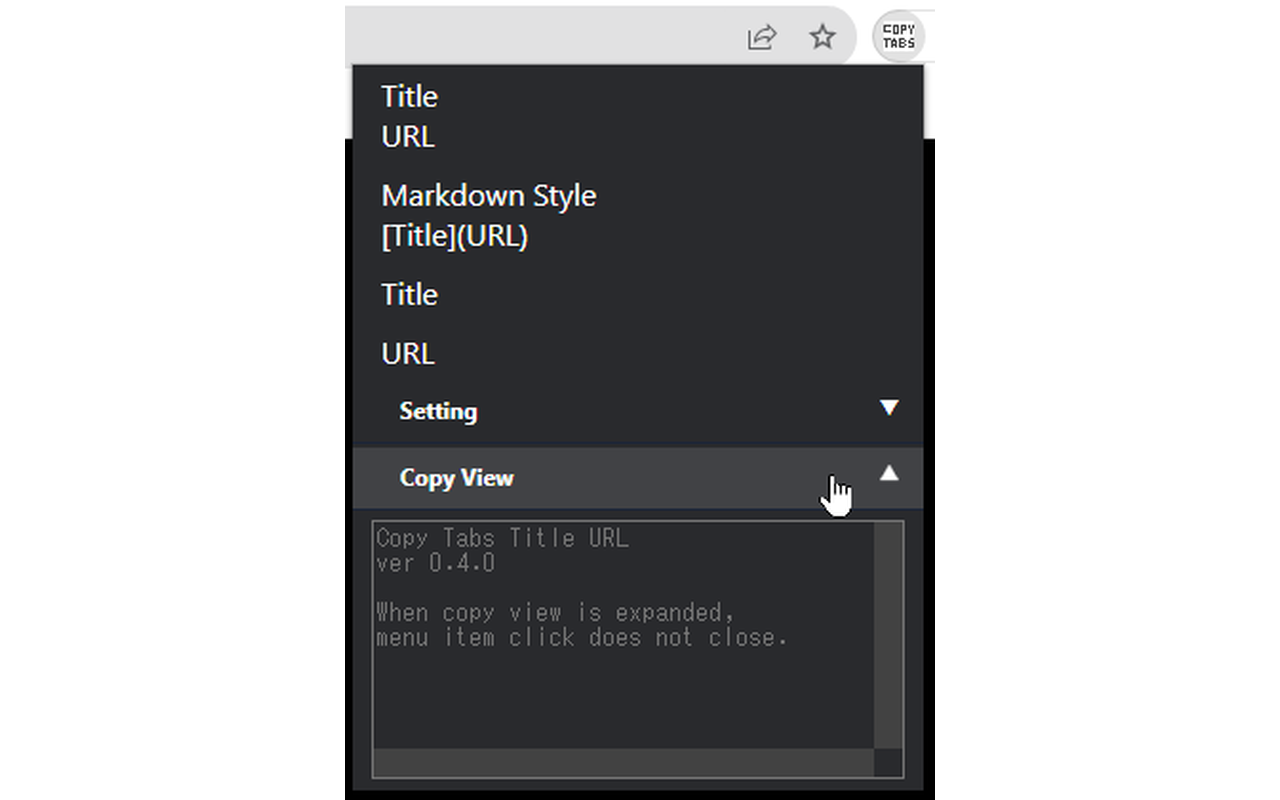
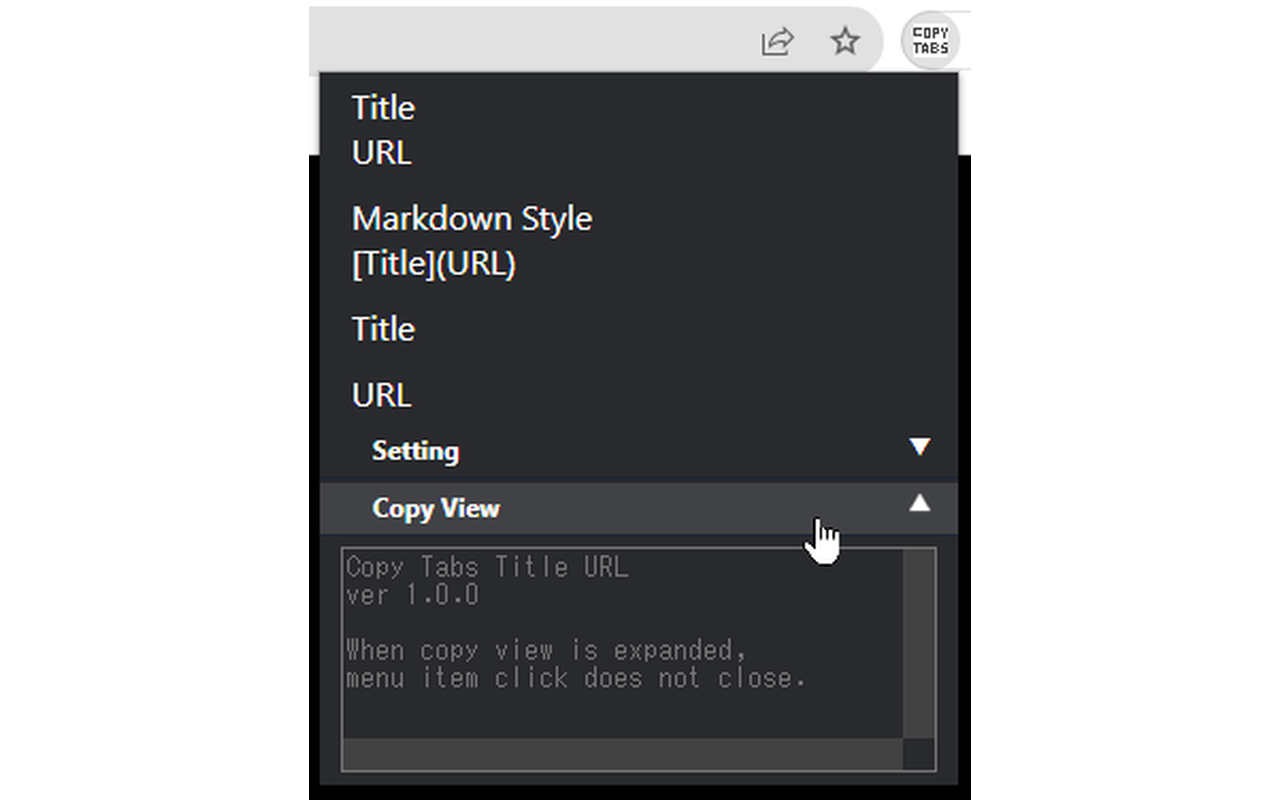
v1.0.0

Changed region(s): [[0.2188, 0.0, 0.7812, 1.0]]

diff --git a/copy-tabs-title-url/index.js b/copy-tabs-title-url/index.js
@@ -5,6 +5,7 @@ const state = {
   noEncodeJapaneseURL: true,
   deleteURLParameter: false,
   deleteTitleStartBracket: true,
+  replaceTitleSpaceZenToHan: true,
   deleteTitleQuoraAnserName: true,
   deleteTitleNameGitHubPullRequest: true,
   expandCopyView: true,
@@ -108,25 +109,44 @@ const _removeTagInnerFirst = (str, startTag, endTag) => {
   return _deleteIndex(str, indexStartTag + startTag.length, indexEndTag + - 1);
 };
 
-const urlShortAmazon = rawUrl => {
-  const AMAZON_HOST = "www.amazon.co.jp";
-  const url = new URL(rawUrl);
-  if (url.host == AMAZON_HOST && url.pathname.includes('/dp/')) {
-    let itemId = _subLastDelimFirst(url.pathname, '/dp/');
-    if (itemId.includes('/')) {
-      itemId = _subFirstDelimFirst(itemId, '/');
+const _removeTagOuterAll = (str, startTag, endTag) => {
+  let before = str;
+  while (true) {
+    let result = _removeTagInnerFirst(before, startTag, endTag);
+    result = result.replace(startTag+endTag, '');
+    console.log(before, result);
+    if (before === result) {
+      return result;
     }
-    newUrl = `${url.origin}/dp/${itemId}/`
-    return newUrl;
-  } else {
+    before = result;
+  }
+}
+
+const urlShortAmazon = rawUrl => {
+  const _urlShortAmazon = (amazonUrl, rawUrl) => {
+    const url = new URL(rawUrl);
+    if (url.host == amazonUrl && url.pathname.includes('/dp/')) {
+      let itemId = _subLastDelimFirst(url.pathname, '/dp/');
+      if (itemId.includes('/')) {
+        itemId = _subFirstDelimFirst(itemId, '/');
+      }
+      newUrl = `${url.origin}/dp/${itemId}/`
+      return newUrl;
+    }
     return rawUrl;
   }
+
+  let result = rawUrl;
+  result = _urlShortAmazon('www.amazon.com', result);
+  result = _urlShortAmazon('www.amazon.co.jp', result);
+  return result;
 }
 
 const urlNoEncodeJapanese = url => {
   let result = url;
   try {
     result = decodeURI(url);
+    result = result.replaceAll(' ', '%20');
   } catch (e) {
   }
   return result;
@@ -139,28 +159,13 @@ const urlDeleteParameter = rawUrl => {
 }
 
 const titleDeleteStartBracket = title => {
-  const excludeBracket = (start, end) => {
-    const indexStartbracket = _indexOfFirst(title, start);
-    const indexEndbracket = _indexOfFirst(title, end);
-
-    if (indexStartbracket === -1 || indexEndbracket === -1) {
-      return title;
-    }
-    if (indexEndbracket < indexStartbracket) {
-      return title;
-    }
-
-    let result = _subFirstDelimFirst(title, start);
-    result += _subLastDelimFirst(title, end);
-    return result;
-  }
-
-  let result  = excludeBracket('(', ') ');
-  if (result !== title) {
-    return result;
-  }
-  result = excludeBracket('(', ')');
+  let result = _removeTagOuterAll(title, '(', ') ');
+  result = _removeTagOuterAll(result, '(', ')');
   return result;
+}
+
+const titleReplaceSpaceZenToHan = title => {
+  return title.replaceAll('　', ' ');
 }
 
 const formatURL = (url, state) => {
@@ -173,6 +178,9 @@ const formatURL = (url, state) => {
 const formatTitleURL = ({title, url, state}) => {
   if (state.deleteTitleStartBracket) {
     title = titleDeleteStartBracket(title);
+  }
+  if (state.replaceTitleSpaceZenToHan) {
+    title = titleReplaceSpaceZenToHan(title);
   }
   if (state.deleteTitleQuoraAnserName) {
     title = _removeTagInnerFirst(title, 'に対する', '回答');
@@ -271,6 +279,9 @@ const onClickCheckboxURLDeleteParameter = e => {
 const onClickCheckboxTitleDeleteStartBracket = e => {
   setStorageParameter('deleteTitleStartBracket', e.srcElement.checked);
 }
+const onClickCheckboxTitleReplaceSpaceZenToHan = e => {
+  setStorageParameter('replaceTitleSpaceZenToHan', e.srcElement.checked);
+}
 const onClickCheckboxTitleDeleteQuoraAnswerName = e => {
   setStorageParameter('deleteTitleQuoraAnserName', e.srcElement.checked);
 }
@@ -283,7 +294,7 @@ const onClickAccordionCopyView = e => {
 
 document.addEventListener("DOMContentLoaded", () => {
   document.querySelector("#copyView").placeholder =
-    "Copy Tabs Title URL\nver 0.4.0\n\n" +
+    "Copy Tabs Title URL\nver 1.0.0\n\n" +
     "When copy view is expanded,\nmenu item click does not close."
 
   document.querySelectorAll(".copy-tabs-title-url_menu-item").forEach(el => {
@@ -300,6 +311,8 @@ document.addEventListener("DOMContentLoaded", () => {
     .addEventListener("click", onClickCheckboxURLDeleteParameter);
   document.querySelector("#checkboxTitleDeleteStartBracket")
     .addEventListener("click", onClickCheckboxTitleDeleteStartBracket);
+  document.querySelector("#checkboxTitleReplaceSpaceZenToHan")
+    .addEventListener("click", onClickCheckboxTitleReplaceSpaceZenToHan);
   document.querySelector("#checkboxTitleDeleteQuoraAnswerName")
     .addEventListener("click", onClickCheckboxTitleDeleteQuoraAnswerName);
   document.querySelector("#checkboxTitleDeleteNameGitHubPullRequest")
@@ -326,6 +339,7 @@ document.addEventListener("DOMContentLoaded", () => {
   getStorageParameter('noEncodeJapaneseURL', '#checkboxInputURLNoEncodeJapanese')
   getStorageParameter('deleteURLParameter', '#checkboxInputURLDeleteParameter')
   getStorageParameter('deleteTitleStartBracket', '#checkboxInputTitleDeleteStartBracket')
+  getStorageParameter('replaceTitleSpaceZenToHan', '#checkboxInputTitleReplaceSpaceZenToHan')
   getStorageParameter('deleteTitleQuoraAnserName', '#checkboxInputTitleDeleteQuoraAnswerName')
   getStorageParameter('deleteTitleNameGitHubPullRequest', '#checkboxInputTitleDeleteNameGitHubPullRequest')
   getStorageParameter('expandCopyView', '#accordionCopyView')

diff --git a/copy-tabs-title-url/index.html b/copy-tabs-title-url/index.html
@@ -63,31 +63,40 @@
           <label id="checkboxURLShortAmazon">
             <input type="checkbox" id="checkboxInputURLShortAmazon" >
             <div>
-              Short Amazon URL
+              Short Amazon URL<br>
+              (.com and .co.jp)
             </div>
           </label>
-  
+
+          <label id="checkboxURLDeleteParameter">
+            <input type="checkbox" id="checkboxInputURLDeleteParameter" >
+            <div>
+              Delete Parameter after ? From URL
+            </div>
+          </label>
+
           <label id="checkboxURLNoEncodeJapanese">
             <input type="checkbox" id="checkboxInputURLNoEncodeJapanese" >
             <div>
               No Encode Japanese URL
             </div>
           </label>
-  
-          <label id="checkboxURLDeleteParameter">
-            <input type="checkbox" id="checkboxInputURLDeleteParameter" >
-            <div>
-              Delete Parameter From URL
-            </div>
-          </label>
-  
+
           <label id="checkboxTitleDeleteStartBracket">
             <input type="checkbox" id="checkboxInputTitleDeleteStartBracket" >
             <div>
-              Remove Bracketed (---) From Title 
+              Remove Bracketed (---) From Title
             </div>
           </label>
-  
+
+          <label id="checkboxTitleReplaceSpaceZenToHan">
+            <input type="checkbox" id="checkboxInputTitleReplaceSpaceZenToHan" >
+            <div>
+              Replace Space Zenkaku to Hankaku From Title<br>
+              (Japanese Space Char type)
+            </div>
+          </label>
+
           <label id="checkboxTitleDeleteQuoraAnswerName">
             <input type="checkbox" id="checkboxInputTitleDeleteQuoraAnswerName" >
             <div>
@@ -95,7 +104,7 @@
               On Quora (English and Japanese)
             </div>
           </label>
-  
+
           <label id="checkboxTitleDeleteNameGitHubPullRequest" style="margin-bottom: 10px;">
             <input type="checkbox" id="checkboxInputTitleDeleteNameGitHubPullRequest" >
             <div>

diff --git a/copy-tabs-title-url/index.css b/copy-tabs-title-url/index.css
@@ -42,7 +42,7 @@ li:hover {
 .checkboxs label {
   display: inline-flex;
   width: 100%;
-  height: 32px;
+  height: 36px;
   align-items: center;
   user-select: none;
 }
@@ -107,7 +107,7 @@ li:hover {
   line-height: 1.6;
   position: relative;
   margin: 0 0 0 0;
-  height: 32px;
+  height: 24px;
   padding-left: 25px;
   cursor: pointer;
   border-bottom: 1px solid #1b2538;
@@ -161,7 +161,7 @@ li:hover {
 
 .copy-view-textarea {
   width: 100%;
-  height: 130px;
+  height: 100px;
   margin-left: 10px;
   margin-right: 10px;
   margin-top: 5px;

diff --git a/README.md b/README.md
@@ -1,6 +1,7 @@
 # <img src="./copy-tabs-title-url/icon/icon128x128.png" width="40px" style="vertical-align:middle; margin-right:10px;">Chrome Extention: Copy Tabs Title Url
 
 ## Chrome Web Store
+
 Copy Tabs Title URL - Chrome Web Store  
 https://chrome.google.com/webstore/detail/copy-tabs-title-url/lcfoefigmljgmbolbodknedngjcgelng
 
@@ -44,6 +45,16 @@ Copy the title and URL from a Chrome tabs.
 - chrome browser: add extension icon copy-tabs-title-url
 
 ## Version
+
+### 1.0.0
+2022/04/09(Sat)
+- Fix only amazon.co.jp >> only amazon.com & amazon.co.jp
+- update Remove Bracketed (---) From Title
+  - Only Remove First but Remove All
+- Change wording Menu Item
+- add Replace Space Zenkaku to Hankaku From Title(Japanese)
+- Fix No Encode Japanese
+  - include space remain %20
 
 ### 0.4.0
 2022/04/06(Wed)
